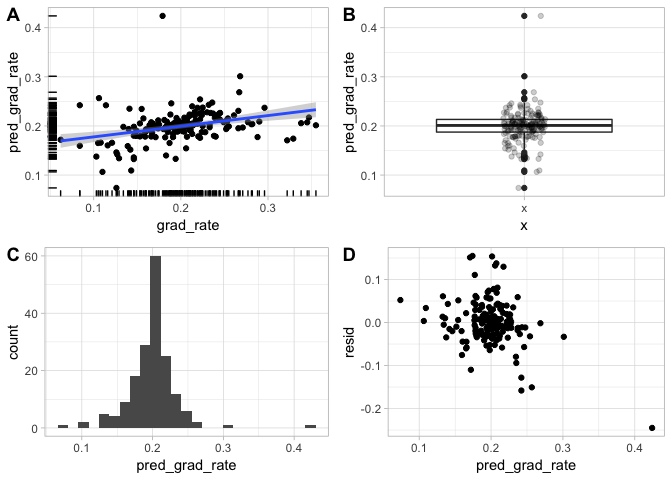
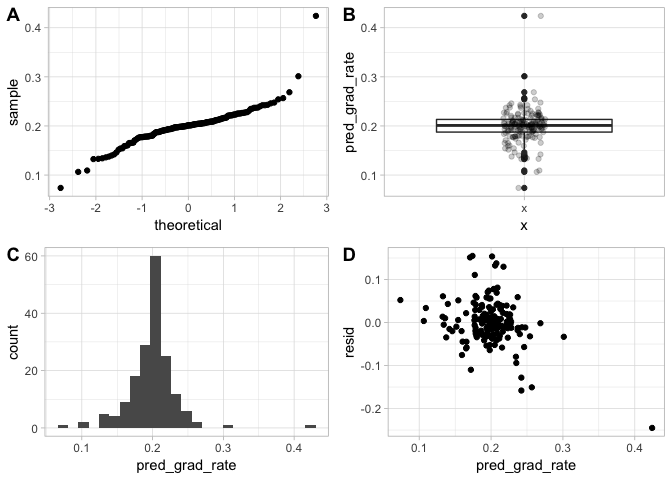
qq plots for train and testing

Changed region(s): [[0.0625, 0.1562, 0.4688, 0.5], [0.0, 0.0938, 0.0312, 0.3125], [0.125, 0.1875, 0.1562, 0.2188]]

diff --git a/classifier.md b/classifier.md
@@ -80,22 +80,26 @@ training_predictions_scatter <- training_with_predictions %>%
   geom_smooth(method = "lm") + 
   geom_rug() +
   theme_light()
+##################################################
+##                                              ##
+## ^^^^ TAKE THIS OUT AND PUT IN A QQ PLOT ^^^^ ##
+##                                              ##
+##################################################
+
+training_QQ <- training_with_predictions %>% 
+  ggplot(aes(sample = pred_grad_rate)) +
+  stat_qq() +
+  theme_light() +
+  labs(title = "Training plots...")
+
 
 training_predictions_boxplot <- training_with_predictions %>% 
   arrange(basic) %>% 
-  #mutate(TRUE == TRUE) %>% 
-         #instituion_type = str_sub(basic, start = 1L, end = 5L),
-         #instituion_type = case_when(instituion_type == "Assoc" ~ "Associates",
-          #                           instituion_type == "Bacca" ~ "Baccalaureate",
-          #                           instituion_type == "Docto" ~ "Doctoral",
-          #                           instituion_type == "Maste" ~ "Masters",
-          #                           instituion_type == "Resea" ~ "Research",
-          #                           instituion_type == "Schoo" ~ "Specialty",
-          #                           instituion_type == "Triba" ~ "Tribal")) %>% 
   ggplot(aes(y = pred_grad_rate, x = "x")) +
   geom_boxplot() + 
   geom_jitter(alpha = 0.2, width = .09) +
-  theme_light()
+  theme_light() +
+  labs(title = "...do not use for presi")
 
 #histogram of scaled predictions
 training_predictions_histogram <- training_with_predictions %>% 
@@ -106,36 +110,22 @@ training_predictions_histogram <- training_with_predictions %>%
 training_pred_vs_resids <- training_with_predictions %>% 
   ggplot() +
   geom_point(aes(x = pred_grad_rate, y = resid)) +
-  theme_light() +
-  labs(title = "",
-       subtitle = "")
+  theme_light() 
 
-training_predictions_scatter
-```
-
-![](classifier_files/figure-gfm/unnamed-chunk-1-1.png)<!-- -->
-
-``` r
-training_predictions_boxplot
-```
-
-![](classifier_files/figure-gfm/unnamed-chunk-1-2.png)<!-- -->
-
-``` r
-training_predictions_histogram
-```
-
-![](classifier_files/figure-gfm/unnamed-chunk-1-3.png)<!-- -->
-
-``` r
-cowplot::plot_grid(training_predictions_scatter, 
+cowplot::plot_grid(training_QQ, 
                    training_predictions_boxplot, 
                    training_predictions_histogram,
                    training_pred_vs_resids,
                    labels = c("A", "B", "C", "D"))
 ```
 
-![](classifier_files/figure-gfm/unnamed-chunk-1-4.png)<!-- -->
+![](classifier_files/figure-gfm/unnamed-chunk-1-1.png)<!-- -->
+
+1.  
+2.  
+3.  
+4.  
+<!-- end list -->
 
 ``` r
 testing_with_predictions <- add_predictions(testing, model = model.10, var = "pred_grad_rate") %>% 
@@ -162,6 +152,16 @@ testing_predictions_scatter <- testing_with_predictions %>%
   geom_smooth(method = "lm") + 
   geom_rug() +
   theme_light()
+##################################################
+##                                              ##
+## ^^^^ TAKE THIS OUT AND PUT IN A QQ PLOT ^^^^ ##
+##                                              ##
+##################################################
+
+testing_QQ <- testing_with_predictions %>% 
+  ggplot(aes(sample = pred_grad_rate)) +
+  stat_qq() +
+  theme_light()
 
 #histogram of scaled predictions
 testing_predictions_histogram <- testing_with_predictions %>% 
@@ -169,32 +169,21 @@ testing_predictions_histogram <- testing_with_predictions %>%
   geom_histogram(aes(x = pred_grad_rate), bins = 25) +
   theme_light()
 
+#boxplot the predictions
 testing_predictions_boxplot <- testing_with_predictions %>% 
   arrange(basic) %>% 
-  #mutate(TRUE == TRUE) %>% 
-         #instituion_type = str_sub(basic, start = 1L, end = 5L),
-         #instituion_type = case_when(instituion_type == "Assoc" ~ "Associates",
-          #                           instituion_type == "Bacca" ~ "Baccalaureate",
-          #                           instituion_type == "Docto" ~ "Doctoral",
-          #                           instituion_type == "Maste" ~ "Masters",
-          #                           instituion_type == "Resea" ~ "Research",
-          #                           instituion_type == "Schoo" ~ "Specialty",
-          #                           instituion_type == "Triba" ~ "Tribal")) %>% 
   ggplot(aes(y = pred_grad_rate, x = "x")) +
   geom_boxplot() + 
   geom_jitter(alpha = 0.2, width = .09) +
   theme_light()
 
+#scatterplot predictions vs residuals
 testing_pred_vs_resids <- testing_with_predictions %>% 
   ggplot() +
   geom_point(aes(x = pred_grad_rate, y = resid)) +
   theme_light()
 
-#testing_predictions_boxplot
-#testing_predictions_scatter
-#testing_predictions_histogram
-
-cowplot::plot_grid(testing_predictions_scatter, 
+cowplot::plot_grid(testing_QQ, 
                    testing_predictions_boxplot, 
                    testing_predictions_histogram, 
                    testing_pred_vs_resids,
@@ -203,28 +192,34 @@ cowplot::plot_grid(testing_predictions_scatter,
 
 ![](classifier_files/figure-gfm/unnamed-chunk-3-1.png)<!-- -->
 
-``` r
-#testing_with_predictions %>% filter(institution_name == "Bellevue College")
-```
+1.  
+2.  
+3.  
+4.  
+<!-- end list -->
 
 ``` r
 vlines <- as.matrix(testing_with_predictions %>% 
                       filter(institution_name == "Bellevue College") %>% 
                       select(scaled_pred, scaled_act))
 
+colorlist <- c("chartreuse4", "green3", "ivory4", "orangered2", "darkred")
+
 testing_with_predictions %>% 
   ggplot() +
   geom_histogram(aes(x = scaled_pred, fill = classification), binwidth = .15) +
- # scale_fill_gradient2(low = "red", mid = "grey", high = "green",midpoint = mpgr) +
-  geom_vline(aes(xintercept = vlines[1]), color = "blue") +
-  geom_vline(aes(xintercept = vlines[2]), color = "red") +
+  #scale_fill_brewer(palette="Dark2")
+  #scale_fill_gradient2(low = "red", mid = "grey", high = "green",midpoint = mpgr) +
+  geom_vline(aes(xintercept = vlines[1]), color = "blue", size = 1.5) +
+  geom_vline(aes(xintercept = vlines[2]), color = "red", size = 1.5) +
   theme_light() +
-  theme(legend.position="none") +
+  theme(legend.position="right") +
   labs(title = "Histogram of Graduation Predictions",
        subtitle = "BC shows Average rates for both actual and prediction",
        x = "Predicted Graduation Rate",
        caption = "Red line is BC actual graduation rate,
-  Blue line is BC predicted grad rate")
+  Blue line is BC predicted grad rate") +
+  scale_fill_manual(values = colorlist)
 ```
 
 ![](classifier_files/figure-gfm/unnamed-chunk-4-1.png)<!-- -->
